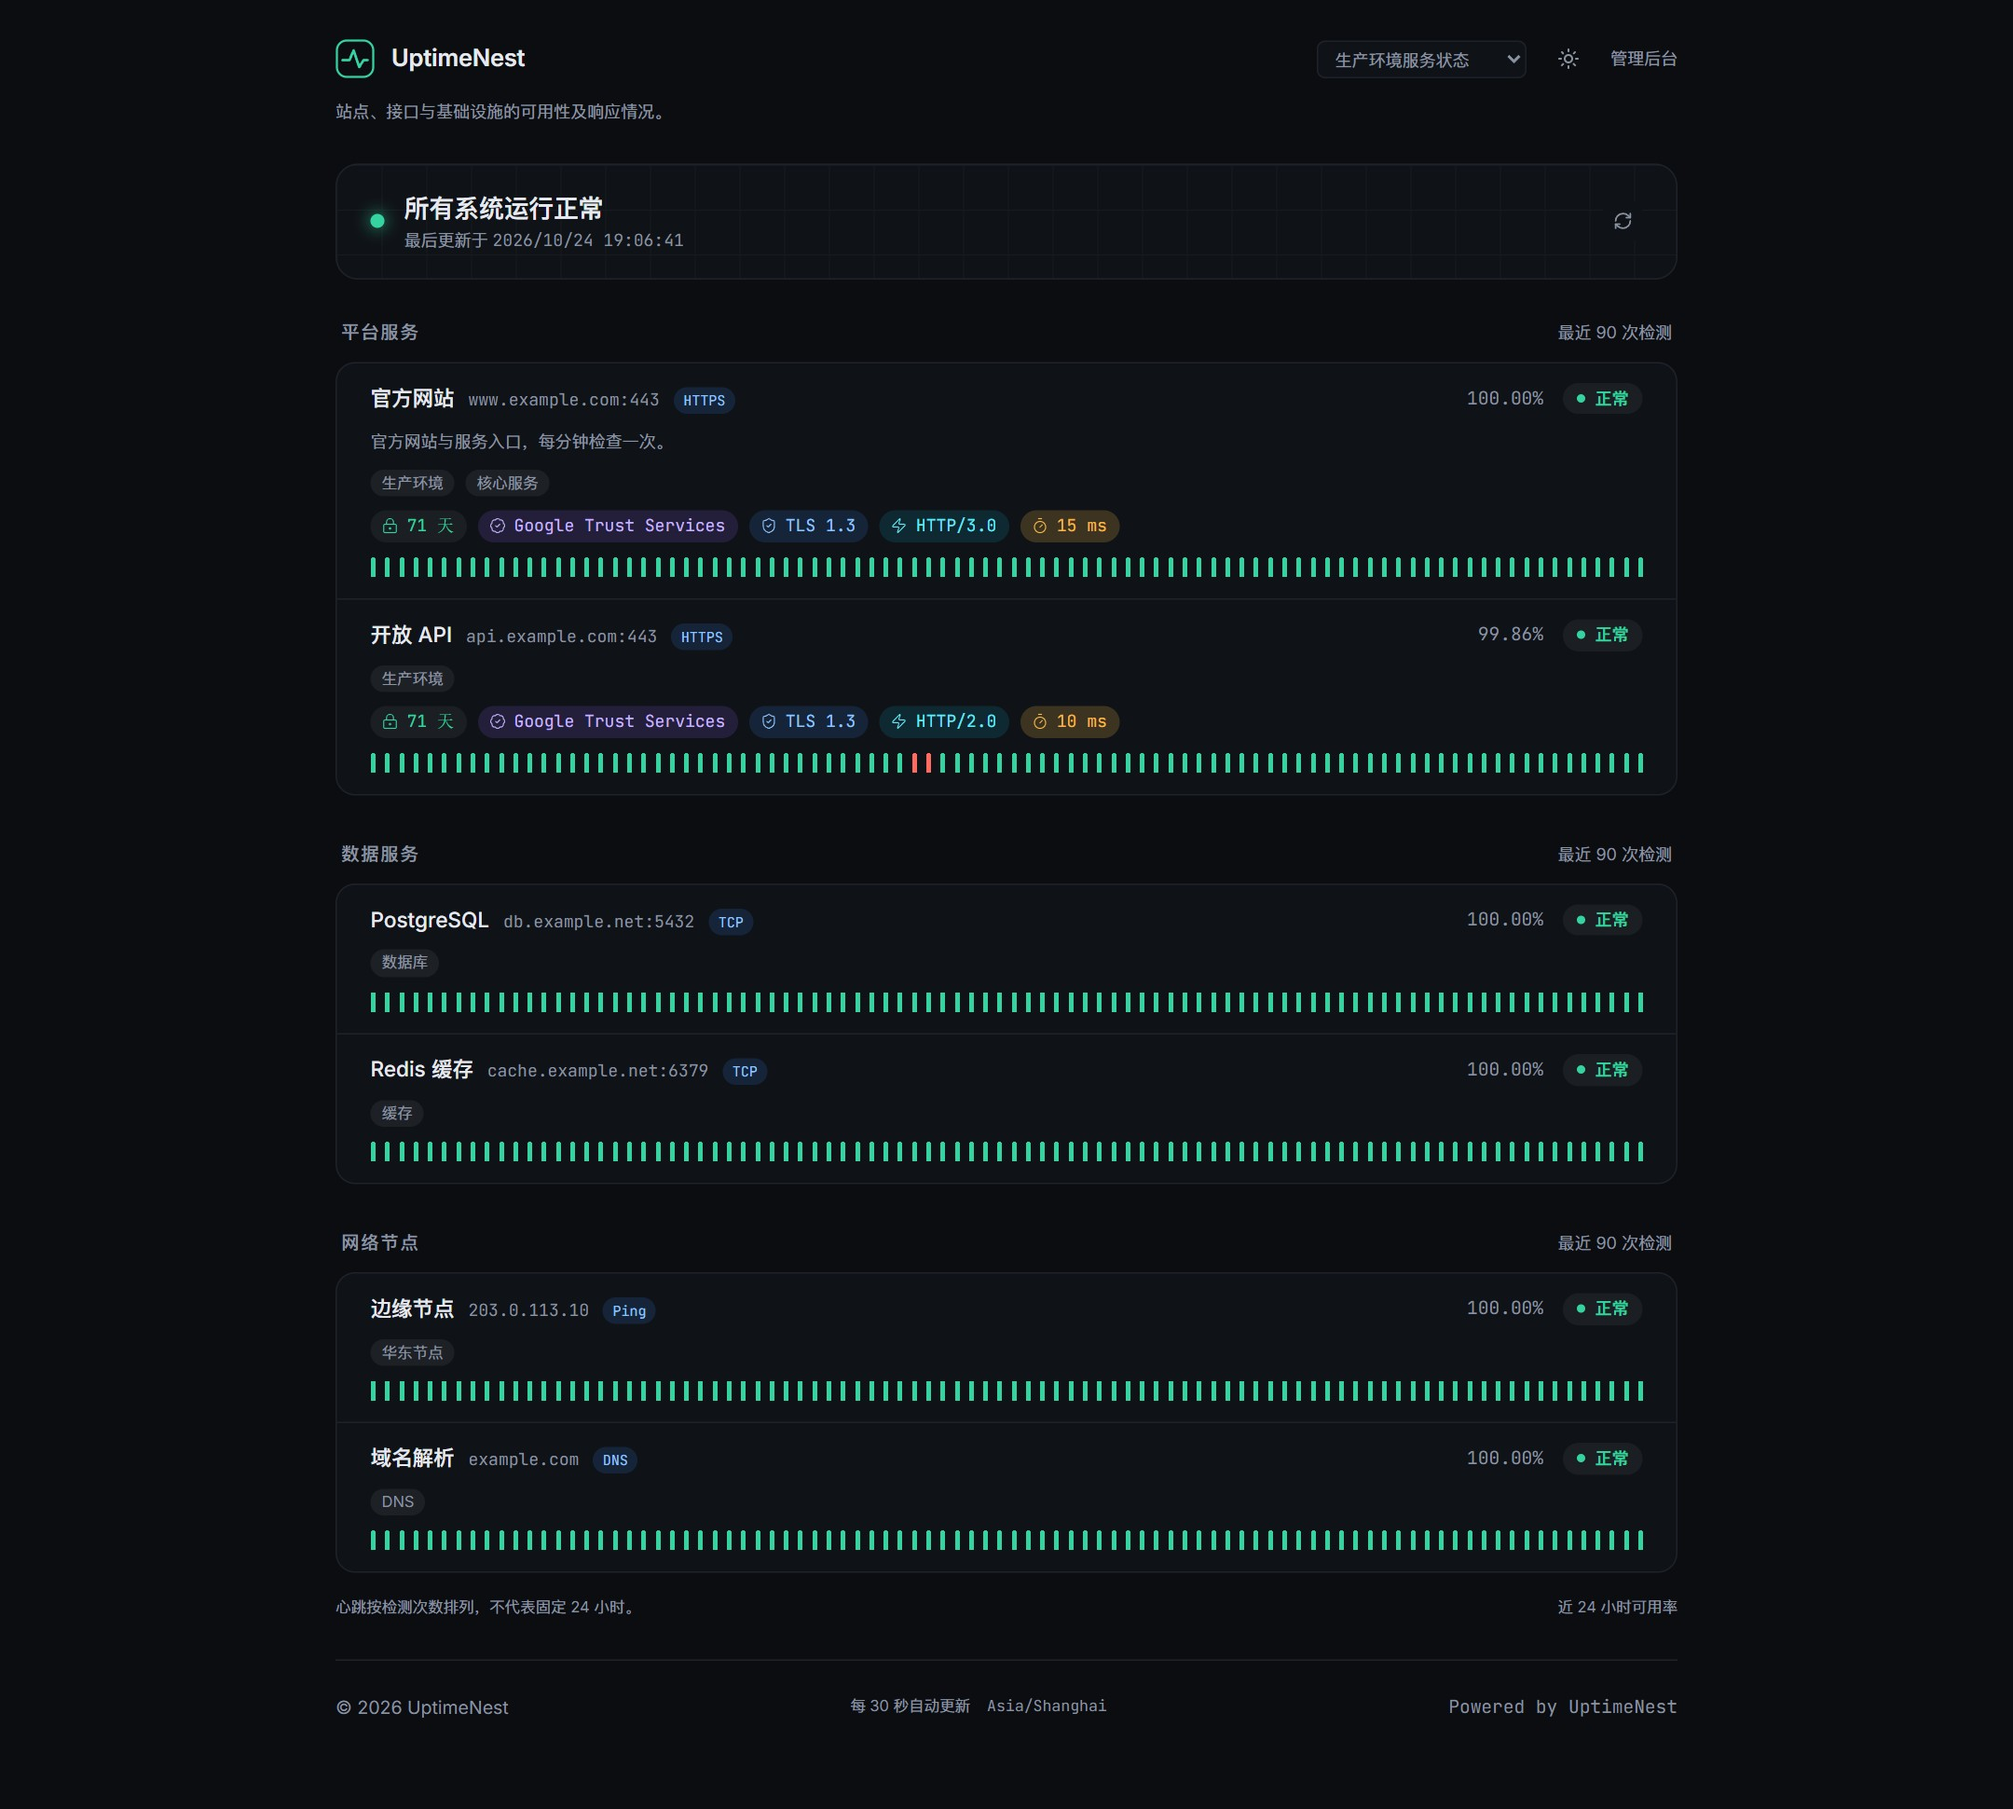
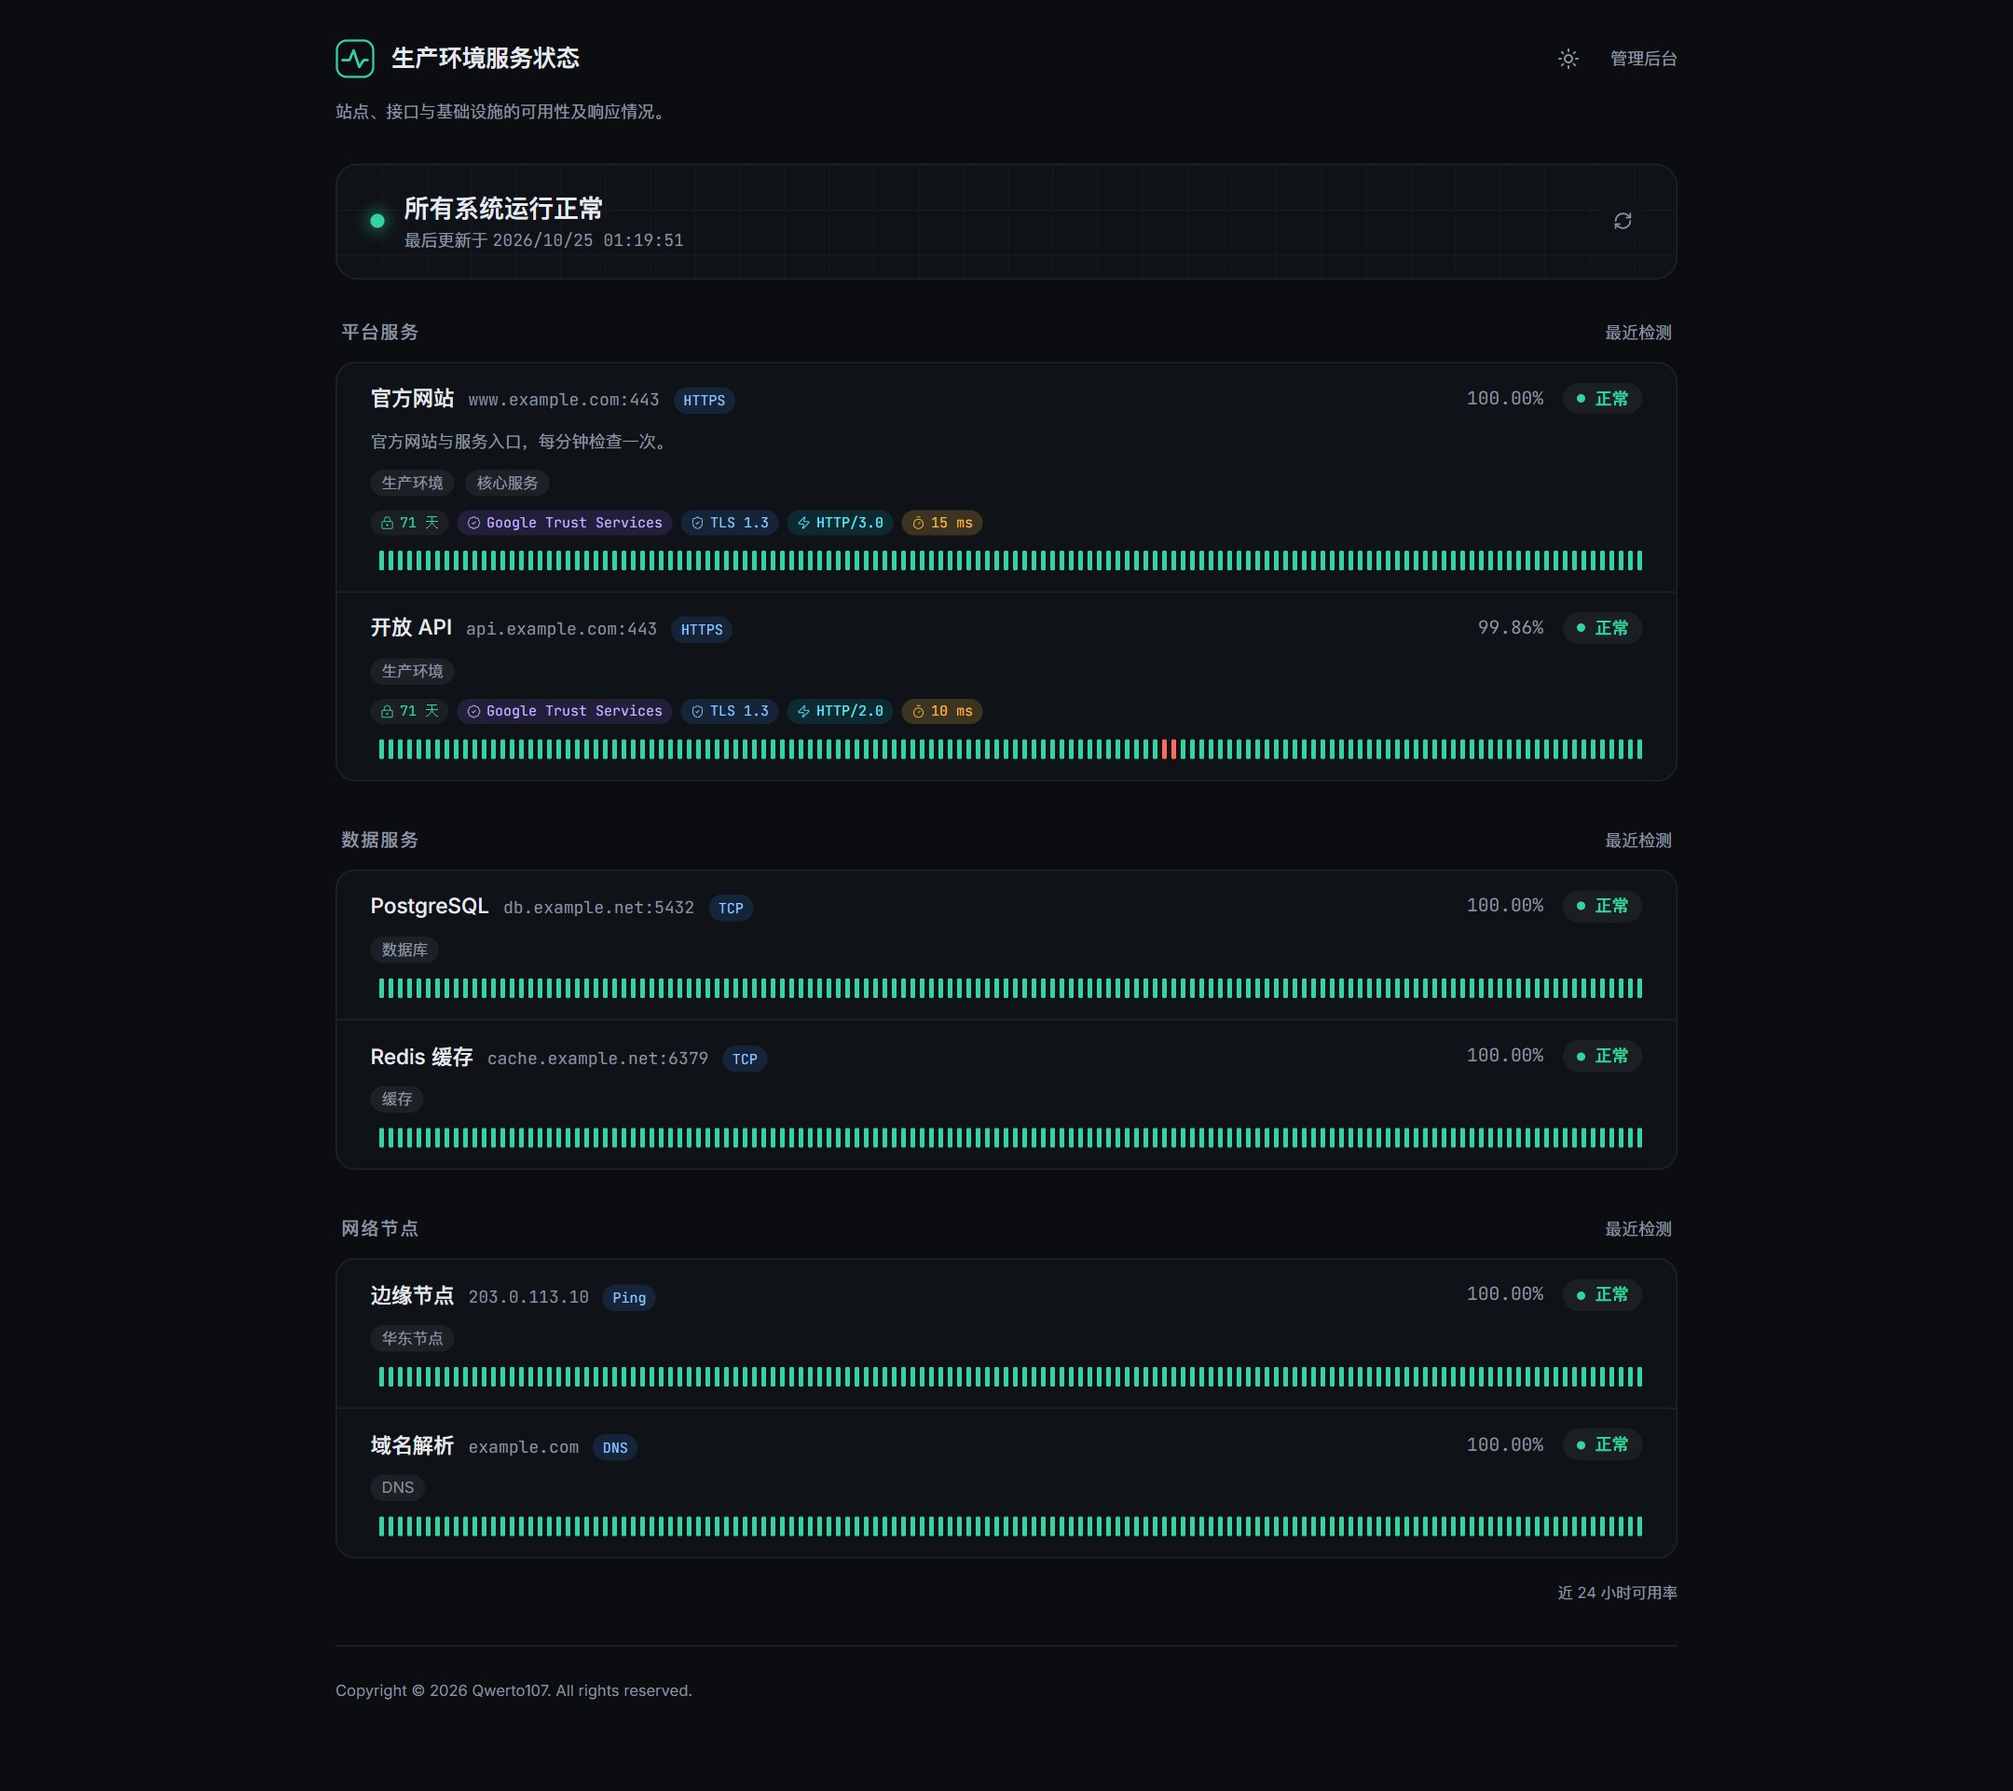
docs: update v0.2.0 guides and interface previews

diff --git a/README.md b/README.md
@@ -35,7 +35,7 @@
 
 ![状态面板：独立展示分组、监控顺序与跨组移动](docs/assets/panels.jpg)
 
-![系统设置：时区、入口页面、主题、User-Agent 与历史保留期限](docs/assets/settings.jpg)
+![系统设置：站点名称、时区、入口页面、主题、User-Agent 与历史保留期限](docs/assets/settings.jpg)
 
 截图来自当前界面，使用独立演示数据，域名、地址和统计仅作展示，不包含真实凭据。正式版功能以对应 [更新记录](docs/changelog.md) 为准。
 
@@ -50,13 +50,15 @@
 | 请求验证 | Basic、OAuth2 客户端凭据和 PEM 格式 mTLS |
 | 连接详情 | TLS/HTTP 版本、握手耗时、证书剩余有效期及签发者组织；展开查看密钥交换与加密套件，HTTP/3 额外显示 QUIC 版本和实际 0-RTT 使用状态 |
 | 后台分组 | 父子树形管理、展开折叠、父组汇总子树状态、调整监控归属 |
-| 状态面板 | 多独立路径、默认面板、独立展示分组、拖拽及按钮排序、按项隐藏地址 |
+| 状态面板 | 多独立路径、默认面板、自定义标题、独立展示分组、实时拖拽及按钮排序、按项隐藏地址 |
 | 历史数据 | 查看心跳及日志、按项独立清空、保留期限与自动／手动过期清理 |
-| 系统设置 | 显示时区、入口页面、全局 HTTP User-Agent、浅色／深色主题 |
+| 系统设置 | 站点名称、列表选择时区、入口页面、全局 HTTP User-Agent、浅色／深色主题 |
 | 账户管理 | 首次设置管理员密码、登录、修改密码及会话撤销 |
 | 数据库 | SQLite 或 PostgreSQL 独立运行，启动时执行版本化迁移 |
 
 后台分组与面板展示分组分别管理，详细行为见 [使用指南](docs/usage.md)。
+
+新安装默认使用新加坡时区、30 天历史保留期限及 `UptimeNest` 请求 User-Agent；升级保留已保存的设置。
 
 ## 快速部署
 
@@ -86,7 +88,7 @@ Windows、外部数据库、HTTPS 和升级步骤见 [部署指南](docs/deploym
 
 ## 支持范围
 
-- 前台显示最近 90 次检测，后台预览保留最近 60 次；可用率与平均响应时间按近 24 小时计算，不代表 90 天。
+- 前后台心跳条使用固定细条和间距，按容器宽度显示最新一段检测记录；可用率与平均响应时间按近 24 小时计算，不代表心跳条覆盖的时间。
 - HTTP/3 需要 HTTPS 及 UDP 连通；自动模式仅在 QUIC 连接建立失败时回退，不重发已经发出的请求。
 - Ping 使用系统命令。容器已提供 Ping，直接运行程序时需要系统安装 `ping` 并允许 ICMP。
 - 面板为公开展示页面；地址可逐项隐藏，完整请求配置和验证凭据仅管理员可见。

diff --git a/docs/development.md b/docs/development.md
@@ -110,7 +110,7 @@ go test ./...
 
 ### 时间与历史
 
-心跳和日志时间使用 Unix 毫秒。每次统计从数据库读取近 24 小时记录；公开摘要取最近 90 条心跳，后台摘要取最近 60 条，不把条数当作天数。
+心跳和日志时间使用 Unix 毫秒。每次统计从数据库读取近 24 小时记录。前后台心跳条使用固定条宽和间距，按容器宽度决定显示数量，并通过 `heartbeatCount` 按需请求最近记录，最多 1000 条。未指定有效数量时，公开接口默认 90 条，后台默认 60 条；条数不代表固定时间范围。
 
 应用启动时及每小时清理超出保留期限的心跳和日志。按项清空仅删除指定监控的对应记录，统计根据剩余数据重新计算。
 
@@ -124,7 +124,7 @@ go test ./...
 
 每项监控独立调度，总并发上限 32；完整检测结束后再等待正常间隔。重试期间不提前记录故障，耗尽重试后只写入最终心跳。停用或修改配置会取消旧任务，旧配置的检测结果不会写回新配置。
 
-HTTP/3 优先模式只在 QUIC 连接建立失败时回退。跨来源跳转移除自定义头与验证信息，mTLS 拒绝跨来源跳转。TLS 与 QUIC 元数据取自真实连接，不从配置推断。
+HTTP/3 优先模式只在 QUIC 连接建立失败时回退。跨来源跳转移除自定义头与验证信息，mTLS 拒绝跨来源跳转。TLS 与 QUIC 元数据取自真实连接，不从配置推断。单项 `ignoreTLS` 默认关闭，开启后仅跳过检测目标的证书校验，同时适用于 HTTP/3；OAuth2 令牌请求仍独立校验证书。
 
 监控检测与未来通知逻辑通过简单的 `StateHandler` 状态变化入口解耦。当前不实现通知配置、管理界面或发送渠道，新增检测或订阅时保持模块职责清晰。
 

diff --git a/docs/changelog.md b/docs/changelog.md
@@ -2,8 +2,16 @@
 
 [文档中心](README.md) · [下载版本](https://github.com/Qwerto107/UptimeNest/releases) · [发布流程](releasing.md)
 
-## 未发布
+## v0.2.0 · 2026-10-25
 
+- 状态面板汇总将停用监控视为正常；其余监控正常或全部停用时，统一显示“所有系统运行正常”，不显示停用补充说明。
+- 面板编辑支持整项跟随指针、实时让位、跨组拖动及编辑区域边缘滚动，兼容触屏和减少动态效果设置。
+- 默认检测 User-Agent 改为 `UptimeNest`；新安装历史保留期限改为 30 天，保留已有设置。
+- HTTP/HTTPS 监控增加默认关闭的“忽略 HTTPS 站点的 TLS/SSL 错误”，同时作用于 HTTP/3 检测。
+- 显示时区改为下拉选择，新安装默认新加坡；提供常用城市及浏览器支持的 IANA 时区，保留旧配置中的时区别名。
+- 支持全局自定义站点名称，面板标题替换状态页左上角名称，浏览器标题统一使用全局站点名称。
+- 前后台心跳条改为固定条宽与间距，按容器宽度调整显示数量，并按需补取最新历史。
+- 按 Pulse Status 设计重写管理后台，统一浅色／深色主题、紧凑导航、列表、设置与登录界面；监控编辑改为分项页签，并适配手机布局。
 - 按文档中心、使用、部署、开发、API、二进制与发布流程重新整理项目文档。
 - 更新浅色／深色状态页、监控、分组、面板及设置的界面预览，使用独立演示数据。
 - Compose 改为直接拉取统一镜像，使用宿主机 `./data`、只读根目录、临时目录及显式健康检查；旧命名卷迁移见 [部署指南](deployment.md#升级与回退)。
